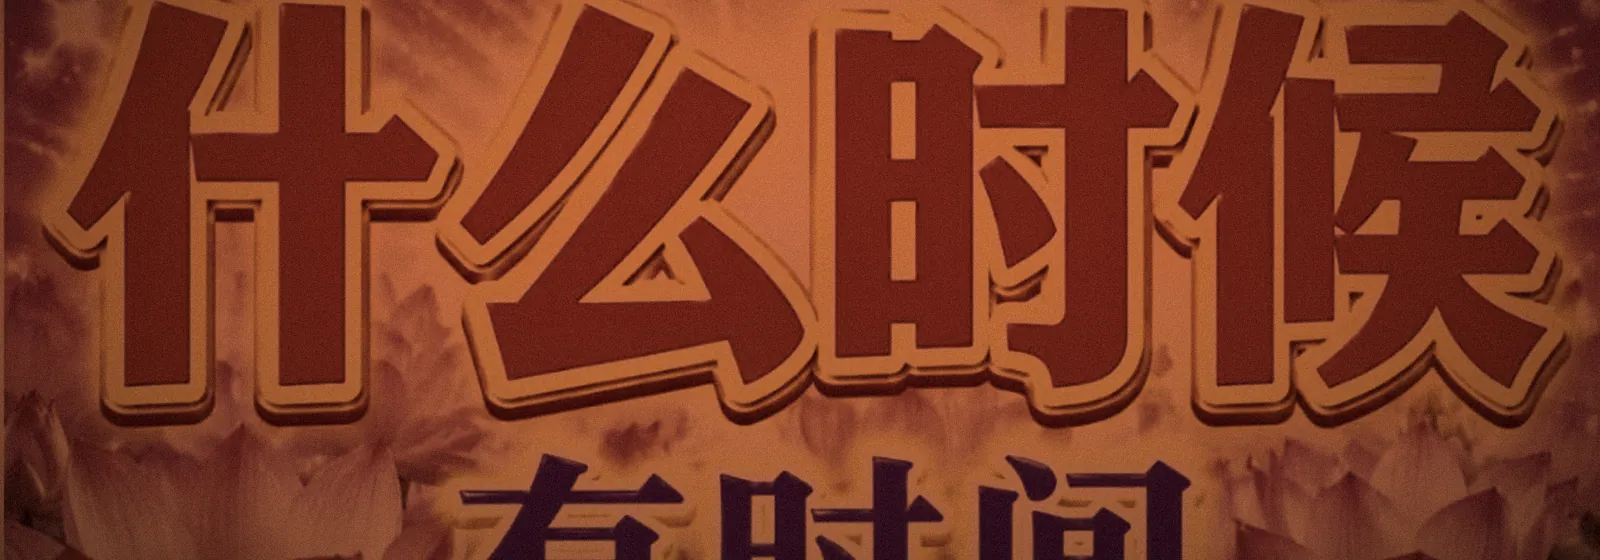
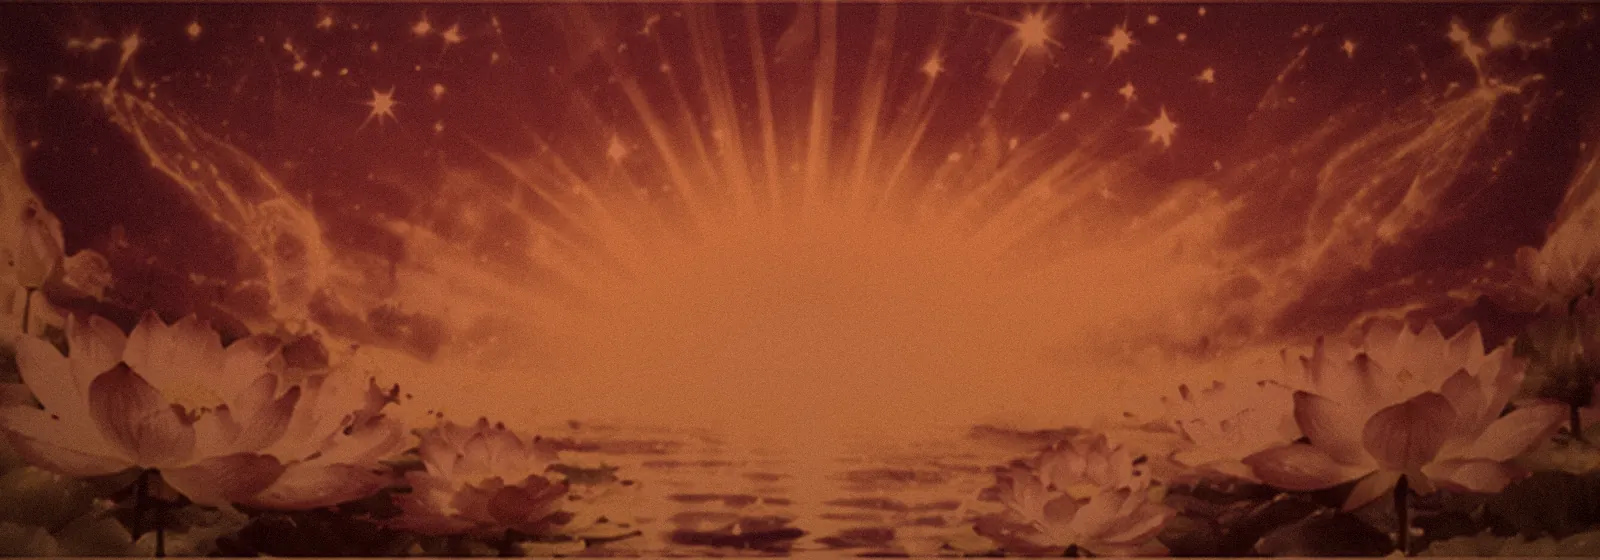
site: 2026-11-04 17:20

diff --git a/qrl/index.html b/qrl/index.html
@@ -79,10 +79,10 @@ body{
    卡片背景主配色为红色与金色……越有这种花哨的土味最好。」
    所以这里刻意不跟全站的紫色系走：烫金粗边 + 双层红渐变 + 斜纹底 + 四角金饰 + 灯笼，
    标题用 clamp 吃到容器宽度上限。整块只在 QRL 页、且有新文章时才出现。 */
-/* 背景图由 render 时随机挑一张（见 pickGongxiBg）：--bg 是这个卡片的图片地址，
-   --bgpos 是它的对齐位置。图片本身已经过「压亮度 + 红调化」预处理（tools/make-gongxi-bg.py），
-   所以这里不再需要调透明度，直接把渐变作为兜底垫在图片下面——图没加载出来时
-   仍然是那块红金渐变，不会是白底黑字。 */
+/* 背景图按「喜报是哪天发的」取当天的星期那张（见 pickGongxiBg）：--bg 是这个卡片的
+   图片地址，--bgpos 是它的对齐位置。图片本身已经过「压亮度 + 红调化」预处理
+   （tools/make-gongxi-bg.py），所以这里不再需要调透明度，直接把渐变作为兜底
+   垫在图片下面——图没加载出来时仍然是那块红金渐变，不会是白底黑字。 */
 .gongxi{
   position:relative;margin:0 0 24px;padding:38px 26px 32px;text-align:center;
   border-radius:var(--radius);overflow:hidden;isolation:isolate;
@@ -496,12 +496,12 @@ footer b{color:var(--ink2);font-weight:600}
 <header class="hero"><div class="inner">
 <p class="kicker">Quantum Review Letters · Beta</p>
 <h1>QRL（测试版）</h1>
-<p class="meta"><div>共 <b>25</b> 篇</div><div>最近一次检查 2026-11-03</div><div>生成于 2026-11-04 16:17</div></p>
+<p class="meta"><div>共 <b>25</b> 篇</div><div>最近一次检查 2026-11-03</div><div>生成于 2026-11-04 17:18</div></p>
 </div></header>
 <div class="wrap">
 <nav class="tabs"><a href="../index.html">首页</a><a href="../daily/2026-11-04.html">日报</a><a href="../monthly/index.html">月报</a><a href="../topic/index.html">专题</a><a href="../qrl/index.html" class="active" aria-current="page">QRL（测试版）</a></nav>
 
-<div class="gongxi" style="--bg:url('../assets/gongxi/g2.webp');--bgpos:30% center">
+<div class="gongxi" style="--bg:url('../assets/gongxi/g2.webp');--bgpos:center">
 <div class="gbg"></div>
 <span class="lantern l">🏮</span><span class="lantern r">🏮</span>
 <p class="gk">Q R L · 新 刊 速 报</p>

diff --git a/topic/phot.html b/topic/phot.html
@@ -79,10 +79,10 @@ body{
    卡片背景主配色为红色与金色……越有这种花哨的土味最好。」
    所以这里刻意不跟全站的紫色系走：烫金粗边 + 双层红渐变 + 斜纹底 + 四角金饰 + 灯笼，
    标题用 clamp 吃到容器宽度上限。整块只在 QRL 页、且有新文章时才出现。 */
-/* 背景图由 render 时随机挑一张（见 pickGongxiBg）：--bg 是这个卡片的图片地址，
-   --bgpos 是它的对齐位置。图片本身已经过「压亮度 + 红调化」预处理（tools/make-gongxi-bg.py），
-   所以这里不再需要调透明度，直接把渐变作为兜底垫在图片下面——图没加载出来时
-   仍然是那块红金渐变，不会是白底黑字。 */
+/* 背景图按「喜报是哪天发的」取当天的星期那张（见 pickGongxiBg）：--bg 是这个卡片的
+   图片地址，--bgpos 是它的对齐位置。图片本身已经过「压亮度 + 红调化」预处理
+   （tools/make-gongxi-bg.py），所以这里不再需要调透明度，直接把渐变作为兜底
+   垫在图片下面——图没加载出来时仍然是那块红金渐变，不会是白底黑字。 */
 .gongxi{
   position:relative;margin:0 0 24px;padding:38px 26px 32px;text-align:center;
   border-radius:var(--radius);overflow:hidden;isolation:isolate;
@@ -496,7 +496,7 @@ footer b{color:var(--ink2);font-weight:600}
 <header class="hero"><div class="inner">
 <p class="kicker">Special Topic · phot</p>
 <h1>专题 · 集成光子学</h1>
-<p class="meta"><div>共 <b>6</b> 篇 · 收录区间 2026-10-20 ~ 2026-11-03</div><div>检索窗口 2026-10-20 ~ 2026-11-03</div><div>生成于 2026-11-04 16:17</div></p>
+<p class="meta"><div>共 <b>6</b> 篇 · 收录区间 2026-10-20 ~ 2026-11-03</div><div>检索窗口 2026-10-20 ~ 2026-11-03</div><div>生成于 2026-11-04 17:18</div></p>
 </div></header>
 <div class="wrap">
 <nav class="tabs"><a href="../index.html">首页</a><a href="../daily/2026-11-04.html">日报</a><a href="../monthly/index.html">月报</a><a href="../topic/index.html" class="active" aria-current="page">专题</a><a href="../qrl/index.html">QRL（测试版）</a></nav>

diff --git a/topic/crypto.html b/topic/crypto.html
@@ -79,10 +79,10 @@ body{
    卡片背景主配色为红色与金色……越有这种花哨的土味最好。」
    所以这里刻意不跟全站的紫色系走：烫金粗边 + 双层红渐变 + 斜纹底 + 四角金饰 + 灯笼，
    标题用 clamp 吃到容器宽度上限。整块只在 QRL 页、且有新文章时才出现。 */
-/* 背景图由 render 时随机挑一张（见 pickGongxiBg）：--bg 是这个卡片的图片地址，
-   --bgpos 是它的对齐位置。图片本身已经过「压亮度 + 红调化」预处理（tools/make-gongxi-bg.py），
-   所以这里不再需要调透明度，直接把渐变作为兜底垫在图片下面——图没加载出来时
-   仍然是那块红金渐变，不会是白底黑字。 */
+/* 背景图按「喜报是哪天发的」取当天的星期那张（见 pickGongxiBg）：--bg 是这个卡片的
+   图片地址，--bgpos 是它的对齐位置。图片本身已经过「压亮度 + 红调化」预处理
+   （tools/make-gongxi-bg.py），所以这里不再需要调透明度，直接把渐变作为兜底
+   垫在图片下面——图没加载出来时仍然是那块红金渐变，不会是白底黑字。 */
 .gongxi{
   position:relative;margin:0 0 24px;padding:38px 26px 32px;text-align:center;
   border-radius:var(--radius);overflow:hidden;isolation:isolate;
@@ -496,7 +496,7 @@ footer b{color:var(--ink2);font-weight:600}
 <header class="hero"><div class="inner">
 <p class="kicker">Special Topic · crypto</p>
 <h1>专题 · 量子密码</h1>
-<p class="meta"><div>共 <b>1</b> 篇 · 收录区间 2026-10-20 ~ 2026-11-03</div><div>检索窗口 2026-10-20 ~ 2026-11-03</div><div>生成于 2026-11-04 16:17</div></p>
+<p class="meta"><div>共 <b>1</b> 篇 · 收录区间 2026-10-20 ~ 2026-11-03</div><div>检索窗口 2026-10-20 ~ 2026-11-03</div><div>生成于 2026-11-04 17:18</div></p>
 </div></header>
 <div class="wrap">
 <nav class="tabs"><a href="../index.html">首页</a><a href="../daily/2026-11-04.html">日报</a><a href="../monthly/index.html">月报</a><a href="../topic/index.html" class="active" aria-current="page">专题</a><a href="../qrl/index.html">QRL（测试版）</a></nav>

diff --git a/topic/ent.html b/topic/ent.html
@@ -79,10 +79,10 @@ body{
    卡片背景主配色为红色与金色……越有这种花哨的土味最好。」
    所以这里刻意不跟全站的紫色系走：烫金粗边 + 双层红渐变 + 斜纹底 + 四角金饰 + 灯笼，
    标题用 clamp 吃到容器宽度上限。整块只在 QRL 页、且有新文章时才出现。 */
-/* 背景图由 render 时随机挑一张（见 pickGongxiBg）：--bg 是这个卡片的图片地址，
-   --bgpos 是它的对齐位置。图片本身已经过「压亮度 + 红调化」预处理（tools/make-gongxi-bg.py），
-   所以这里不再需要调透明度，直接把渐变作为兜底垫在图片下面——图没加载出来时
-   仍然是那块红金渐变，不会是白底黑字。 */
+/* 背景图按「喜报是哪天发的」取当天的星期那张（见 pickGongxiBg）：--bg 是这个卡片的
+   图片地址，--bgpos 是它的对齐位置。图片本身已经过「压亮度 + 红调化」预处理
+   （tools/make-gongxi-bg.py），所以这里不再需要调透明度，直接把渐变作为兜底
+   垫在图片下面——图没加载出来时仍然是那块红金渐变，不会是白底黑字。 */
 .gongxi{
   position:relative;margin:0 0 24px;padding:38px 26px 32px;text-align:center;
   border-radius:var(--radius);overflow:hidden;isolation:isolate;
@@ -496,7 +496,7 @@ footer b{color:var(--ink2);font-weight:600}
 <header class="hero"><div class="inner">
 <p class="kicker">Special Topic · ent</p>
 <h1>专题 · 量子纠缠</h1>
-<p class="meta"><div>共 <b>5</b> 篇 · 收录区间 2026-10-20 ~ 2026-11-03</div><div>检索窗口 2026-10-20 ~ 2026-11-03</div><div>生成于 2026-11-04 16:17</div></p>
+<p class="meta"><div>共 <b>5</b> 篇 · 收录区间 2026-10-20 ~ 2026-11-03</div><div>检索窗口 2026-10-20 ~ 2026-11-03</div><div>生成于 2026-11-04 17:18</div></p>
 </div></header>
 <div class="wrap">
 <nav class="tabs"><a href="../index.html">首页</a><a href="../daily/2026-11-04.html">日报</a><a href="../monthly/index.html">月报</a><a href="../topic/index.html" class="active" aria-current="page">专题</a><a href="../qrl/index.html">QRL（测试版）</a></nav>

diff --git a/daily/2026-11-01.html b/daily/2026-11-01.html
@@ -79,10 +79,10 @@ body{
    卡片背景主配色为红色与金色……越有这种花哨的土味最好。」
    所以这里刻意不跟全站的紫色系走：烫金粗边 + 双层红渐变 + 斜纹底 + 四角金饰 + 灯笼，
    标题用 clamp 吃到容器宽度上限。整块只在 QRL 页、且有新文章时才出现。 */
-/* 背景图由 render 时随机挑一张（见 pickGongxiBg）：--bg 是这个卡片的图片地址，
-   --bgpos 是它的对齐位置。图片本身已经过「压亮度 + 红调化」预处理（tools/make-gongxi-bg.py），
-   所以这里不再需要调透明度，直接把渐变作为兜底垫在图片下面——图没加载出来时
-   仍然是那块红金渐变，不会是白底黑字。 */
+/* 背景图按「喜报是哪天发的」取当天的星期那张（见 pickGongxiBg）：--bg 是这个卡片的
+   图片地址，--bgpos 是它的对齐位置。图片本身已经过「压亮度 + 红调化」预处理
+   （tools/make-gongxi-bg.py），所以这里不再需要调透明度，直接把渐变作为兜底
+   垫在图片下面——图没加载出来时仍然是那块红金渐变，不会是白底黑字。 */
 .gongxi{
   position:relative;margin:0 0 24px;padding:38px 26px 32px;text-align:center;
   border-radius:var(--radius);overflow:hidden;isolation:isolate;
@@ -496,7 +496,7 @@ footer b{color:var(--ink2);font-weight:600}
 <header class="hero"><div class="inner">
 <p class="kicker">Quantum Information Digest · 2026-11-01</p>
 <h1>量子信息速递 · 11 月 1 日</h1>
-<p class="meta"><div>周日 · 本期共 <b>1</b> 篇</div><div>论文发表于 2026-11-01</div><div>生成于 2026-11-04 16:17</div></p>
+<p class="meta"><div>周日 · 本期共 <b>1</b> 篇</div><div>论文发表于 2026-11-01</div><div>生成于 2026-11-04 17:18</div></p>
 </div></header>
 <div class="wrap">
 <nav class="tabs"><a href="../index.html">首页</a><a href="../daily/2026-11-04.html" class="active" aria-current="page">日报</a><a href="../monthly/index.html">月报</a><a href="../topic/index.html">专题</a><a href="../qrl/index.html">QRL（测试版）</a></nav>

diff --git a/daily/2026-11-02.html b/daily/2026-11-02.html
@@ -79,10 +79,10 @@ body{
    卡片背景主配色为红色与金色……越有这种花哨的土味最好。」
    所以这里刻意不跟全站的紫色系走：烫金粗边 + 双层红渐变 + 斜纹底 + 四角金饰 + 灯笼，
    标题用 clamp 吃到容器宽度上限。整块只在 QRL 页、且有新文章时才出现。 */
-/* 背景图由 render 时随机挑一张（见 pickGongxiBg）：--bg 是这个卡片的图片地址，
-   --bgpos 是它的对齐位置。图片本身已经过「压亮度 + 红调化」预处理（tools/make-gongxi-bg.py），
-   所以这里不再需要调透明度，直接把渐变作为兜底垫在图片下面——图没加载出来时
-   仍然是那块红金渐变，不会是白底黑字。 */
+/* 背景图按「喜报是哪天发的」取当天的星期那张（见 pickGongxiBg）：--bg 是这个卡片的
+   图片地址，--bgpos 是它的对齐位置。图片本身已经过「压亮度 + 红调化」预处理
+   （tools/make-gongxi-bg.py），所以这里不再需要调透明度，直接把渐变作为兜底
+   垫在图片下面——图没加载出来时仍然是那块红金渐变，不会是白底黑字。 */
 .gongxi{
   position:relative;margin:0 0 24px;padding:38px 26px 32px;text-align:center;
   border-radius:var(--radius);overflow:hidden;isolation:isolate;
@@ -496,7 +496,7 @@ footer b{color:var(--ink2);font-weight:600}
 <header class="hero"><div class="inner">
 <p class="kicker">Quantum Information Digest · 2026-11-02</p>
 <h1>量子信息速递 · 11 月 2 日</h1>
-<p class="meta"><div>周一 · 本期共 <b>1</b> 篇</div><div>论文发表于 2026-11-02</div><div>生成于 2026-11-04 16:17</div></p>
+<p class="meta"><div>周一 · 本期共 <b>1</b> 篇</div><div>论文发表于 2026-11-02</div><div>生成于 2026-11-04 17:18</div></p>
 </div></header>
 <div class="wrap">
 <nav class="tabs"><a href="../index.html">首页</a><a href="../daily/2026-11-04.html" class="active" aria-current="page">日报</a><a href="../monthly/index.html">月报</a><a href="../topic/index.html">专题</a><a href="../qrl/index.html">QRL（测试版）</a></nav>

diff --git a/daily/2026-11-04.html b/daily/2026-11-04.html
@@ -79,10 +79,10 @@ body{
    卡片背景主配色为红色与金色……越有这种花哨的土味最好。」
    所以这里刻意不跟全站的紫色系走：烫金粗边 + 双层红渐变 + 斜纹底 + 四角金饰 + 灯笼，
    标题用 clamp 吃到容器宽度上限。整块只在 QRL 页、且有新文章时才出现。 */
-/* 背景图由 render 时随机挑一张（见 pickGongxiBg）：--bg 是这个卡片的图片地址，
-   --bgpos 是它的对齐位置。图片本身已经过「压亮度 + 红调化」预处理（tools/make-gongxi-bg.py），
-   所以这里不再需要调透明度，直接把渐变作为兜底垫在图片下面——图没加载出来时
-   仍然是那块红金渐变，不会是白底黑字。 */
+/* 背景图按「喜报是哪天发的」取当天的星期那张（见 pickGongxiBg）：--bg 是这个卡片的
+   图片地址，--bgpos 是它的对齐位置。图片本身已经过「压亮度 + 红调化」预处理
+   （tools/make-gongxi-bg.py），所以这里不再需要调透明度，直接把渐变作为兜底
+   垫在图片下面——图没加载出来时仍然是那块红金渐变，不会是白底黑字。 */
 .gongxi{
   position:relative;margin:0 0 24px;padding:38px 26px 32px;text-align:center;
   border-radius:var(--radius);overflow:hidden;isolation:isolate;
@@ -496,7 +496,7 @@ footer b{color:var(--ink2);font-weight:600}
 <header class="hero"><div class="inner">
 <p class="kicker">Quantum Information Digest · 2026-11-04</p>
 <h1>量子信息速递 · 11 月 4 日</h1>
-<p class="meta"><div>周三 · 本期共 <b>1</b> 篇</div><div>论文发表于 2026-11-03</div><div>生成于 2026-11-04 16:17</div></p>
+<p class="meta"><div>周三 · 本期共 <b>1</b> 篇</div><div>论文发表于 2026-11-03</div><div>生成于 2026-11-04 17:18</div></p>
 </div></header>
 <div class="wrap">
 <nav class="tabs"><a href="../index.html">首页</a><a href="../daily/2026-11-04.html" class="active" aria-current="page">日报</a><a href="../monthly/index.html">月报</a><a href="../topic/index.html">专题</a><a href="../qrl/index.html">QRL（测试版）</a></nav>

diff --git a/monthly/2026-10.html b/monthly/2026-10.html
@@ -79,10 +79,10 @@ body{
    卡片背景主配色为红色与金色……越有这种花哨的土味最好。」
    所以这里刻意不跟全站的紫色系走：烫金粗边 + 双层红渐变 + 斜纹底 + 四角金饰 + 灯笼，
    标题用 clamp 吃到容器宽度上限。整块只在 QRL 页、且有新文章时才出现。 */
-/* 背景图由 render 时随机挑一张（见 pickGongxiBg）：--bg 是这个卡片的图片地址，
-   --bgpos 是它的对齐位置。图片本身已经过「压亮度 + 红调化」预处理（tools/make-gongxi-bg.py），
-   所以这里不再需要调透明度，直接把渐变作为兜底垫在图片下面——图没加载出来时
-   仍然是那块红金渐变，不会是白底黑字。 */
+/* 背景图按「喜报是哪天发的」取当天的星期那张（见 pickGongxiBg）：--bg 是这个卡片的
+   图片地址，--bgpos 是它的对齐位置。图片本身已经过「压亮度 + 红调化」预处理
+   （tools/make-gongxi-bg.py），所以这里不再需要调透明度，直接把渐变作为兜底
+   垫在图片下面——图没加载出来时仍然是那块红金渐变，不会是白底黑字。 */
 .gongxi{
   position:relative;margin:0 0 24px;padding:38px 26px 32px;text-align:center;
   border-radius:var(--radius);overflow:hidden;isolation:isolate;
@@ -496,7 +496,7 @@ footer b{color:var(--ink2);font-weight:600}
 <header class="hero"><div class="inner">
 <p class="kicker">Monthly Archive · 2026-10</p>
 <h1>量子信息速递 · 2026 年 10 月</h1>
-<p class="meta"><div>共 <b>18</b> 篇</div><div>检索窗口 2026-10-20 ~ 2026-11-03</div><div>生成于 2026-11-04 16:17</div></p>
+<p class="meta"><div>共 <b>18</b> 篇</div><div>检索窗口 2026-10-20 ~ 2026-11-03</div><div>生成于 2026-11-04 17:18</div></p>
 </div></header>
 <div class="wrap">
 <nav class="tabs"><a href="../index.html">首页</a><a href="../daily/2026-11-04.html">日报</a><a href="../monthly/index.html" class="active" aria-current="page">月报</a><a href="../topic/index.html">专题</a><a href="../qrl/index.html">QRL（测试版）</a></nav>

diff --git a/monthly/2026-11.html b/monthly/2026-11.html
@@ -79,10 +79,10 @@ body{
    卡片背景主配色为红色与金色……越有这种花哨的土味最好。」
    所以这里刻意不跟全站的紫色系走：烫金粗边 + 双层红渐变 + 斜纹底 + 四角金饰 + 灯笼，
    标题用 clamp 吃到容器宽度上限。整块只在 QRL 页、且有新文章时才出现。 */
-/* 背景图由 render 时随机挑一张（见 pickGongxiBg）：--bg 是这个卡片的图片地址，
-   --bgpos 是它的对齐位置。图片本身已经过「压亮度 + 红调化」预处理（tools/make-gongxi-bg.py），
-   所以这里不再需要调透明度，直接把渐变作为兜底垫在图片下面——图没加载出来时
-   仍然是那块红金渐变，不会是白底黑字。 */
+/* 背景图按「喜报是哪天发的」取当天的星期那张（见 pickGongxiBg）：--bg 是这个卡片的
+   图片地址，--bgpos 是它的对齐位置。图片本身已经过「压亮度 + 红调化」预处理
+   （tools/make-gongxi-bg.py），所以这里不再需要调透明度，直接把渐变作为兜底
+   垫在图片下面——图没加载出来时仍然是那块红金渐变，不会是白底黑字。 */
 .gongxi{
   position:relative;margin:0 0 24px;padding:38px 26px 32px;text-align:center;
   border-radius:var(--radius);overflow:hidden;isolation:isolate;
@@ -496,7 +496,7 @@ footer b{color:var(--ink2);font-weight:600}
 <header class="hero"><div class="inner">
 <p class="kicker">Monthly Archive · 2026-11</p>
 <h1>量子信息速递 · 2026 年 11 月</h1>
-<p class="meta"><div>共 <b>3</b> 篇</div><div>检索窗口 2026-10-20 ~ 2026-11-03</div><div>生成于 2026-11-04 16:17</div></p>
+<p class="meta"><div>共 <b>3</b> 篇</div><div>检索窗口 2026-10-20 ~ 2026-11-03</div><div>生成于 2026-11-04 17:18</div></p>
 </div></header>
 <div class="wrap">
 <nav class="tabs"><a href="../index.html">首页</a><a href="../daily/2026-11-04.html">日报</a><a href="../monthly/index.html" class="active" aria-current="page">月报</a><a href="../topic/index.html">专题</a><a href="../qrl/index.html">QRL（测试版）</a></nav>

diff --git a/topic/index.html b/topic/index.html
@@ -79,10 +79,10 @@ body{
    卡片背景主配色为红色与金色……越有这种花哨的土味最好。」
    所以这里刻意不跟全站的紫色系走：烫金粗边 + 双层红渐变 + 斜纹底 + 四角金饰 + 灯笼，
    标题用 clamp 吃到容器宽度上限。整块只在 QRL 页、且有新文章时才出现。 */
-/* 背景图由 render 时随机挑一张（见 pickGongxiBg）：--bg 是这个卡片的图片地址，
-   --bgpos 是它的对齐位置。图片本身已经过「压亮度 + 红调化」预处理（tools/make-gongxi-bg.py），
-   所以这里不再需要调透明度，直接把渐变作为兜底垫在图片下面——图没加载出来时
-   仍然是那块红金渐变，不会是白底黑字。 */
+/* 背景图按「喜报是哪天发的」取当天的星期那张（见 pickGongxiBg）：--bg 是这个卡片的
+   图片地址，--bgpos 是它的对齐位置。图片本身已经过「压亮度 + 红调化」预处理
+   （tools/make-gongxi-bg.py），所以这里不再需要调透明度，直接把渐变作为兜底
+   垫在图片下面——图没加载出来时仍然是那块红金渐变，不会是白底黑字。 */
 .gongxi{
   position:relative;margin:0 0 24px;padding:38px 26px 32px;text-align:center;
   border-radius:var(--radius);overflow:hidden;isolation:isolate;
@@ -496,7 +496,7 @@ footer b{color:var(--ink2);font-weight:600}
 <header class="hero"><div class="inner">
 <p class="kicker">Special Topics · Cryptography, Entanglement, Photonics &amp; Fiber Sensing</p>
 <h1>专题</h1>
-<p class="meta"><div>共 <b>3</b> 个方向 · <b>12</b> 篇</div><div>本页生成于 2026-11-04 16:17</div></p>
+<p class="meta"><div>共 <b>3</b> 个方向 · <b>12</b> 篇</div><div>本页生成于 2026-11-04 17:18</div></p>
 </div></header>
 <div class="wrap">
 <nav class="tabs"><a href="../index.html">首页</a><a href="../daily/2026-11-04.html">日报</a><a href="../monthly/index.html">月报</a><a href="../topic/index.html" class="active" aria-current="page">专题</a><a href="../qrl/index.html">QRL（测试版）</a></nav>

diff --git a/index.html b/index.html
@@ -79,10 +79,10 @@ body{
    卡片背景主配色为红色与金色……越有这种花哨的土味最好。」
    所以这里刻意不跟全站的紫色系走：烫金粗边 + 双层红渐变 + 斜纹底 + 四角金饰 + 灯笼，
    标题用 clamp 吃到容器宽度上限。整块只在 QRL 页、且有新文章时才出现。 */
-/* 背景图由 render 时随机挑一张（见 pickGongxiBg）：--bg 是这个卡片的图片地址，
-   --bgpos 是它的对齐位置。图片本身已经过「压亮度 + 红调化」预处理（tools/make-gongxi-bg.py），
-   所以这里不再需要调透明度，直接把渐变作为兜底垫在图片下面——图没加载出来时
-   仍然是那块红金渐变，不会是白底黑字。 */
+/* 背景图按「喜报是哪天发的」取当天的星期那张（见 pickGongxiBg）：--bg 是这个卡片的
+   图片地址，--bgpos 是它的对齐位置。图片本身已经过「压亮度 + 红调化」预处理
+   （tools/make-gongxi-bg.py），所以这里不再需要调透明度，直接把渐变作为兜底
+   垫在图片下面——图没加载出来时仍然是那块红金渐变，不会是白底黑字。 */
 .gongxi{
   position:relative;margin:0 0 24px;padding:38px 26px 32px;text-align:center;
   border-radius:var(--radius);overflow:hidden;isolation:isolate;
@@ -496,7 +496,7 @@ footer b{color:var(--ink2);font-weight:600}
 <header class="hero"><div class="inner">
 <p class="kicker">Quantum Information Digest · Archive</p>
 <h1>量子信息速递</h1>
-<p class="meta"><div>累计 <b>21</b> 篇</div><div>每日 08:00 自动更新</div><div>本页生成于 2026-11-04 16:17</div></p>
+<p class="meta"><div>累计 <b>21</b> 篇</div><div>每日 08:00 自动更新</div><div>本页生成于 2026-11-04 17:18</div></p>
 </div></header>
 <div class="wrap">
 <nav class="tabs"><a href="index.html" class="active" aria-current="page">首页</a><a href="daily/2026-11-04.html">日报</a><a href="monthly/index.html">月报</a><a href="topic/index.html">专题</a><a href="qrl/index.html">QRL（测试版）</a></nav>

diff --git a/daily/2026-11.html b/daily/2026-11.html
@@ -79,10 +79,10 @@ body{
    卡片背景主配色为红色与金色……越有这种花哨的土味最好。」
    所以这里刻意不跟全站的紫色系走：烫金粗边 + 双层红渐变 + 斜纹底 + 四角金饰 + 灯笼，
    标题用 clamp 吃到容器宽度上限。整块只在 QRL 页、且有新文章时才出现。 */
-/* 背景图由 render 时随机挑一张（见 pickGongxiBg）：--bg 是这个卡片的图片地址，
-   --bgpos 是它的对齐位置。图片本身已经过「压亮度 + 红调化」预处理（tools/make-gongxi-bg.py），
-   所以这里不再需要调透明度，直接把渐变作为兜底垫在图片下面——图没加载出来时
-   仍然是那块红金渐变，不会是白底黑字。 */
+/* 背景图按「喜报是哪天发的」取当天的星期那张（见 pickGongxiBg）：--bg 是这个卡片的
+   图片地址，--bgpos 是它的对齐位置。图片本身已经过「压亮度 + 红调化」预处理
+   （tools/make-gongxi-bg.py），所以这里不再需要调透明度，直接把渐变作为兜底
+   垫在图片下面——图没加载出来时仍然是那块红金渐变，不会是白底黑字。 */
 .gongxi{
   position:relative;margin:0 0 24px;padding:38px 26px 32px;text-align:center;
   border-radius:var(--radius);overflow:hidden;isolation:isolate;
@@ -496,7 +496,7 @@ footer b{color:var(--ink2);font-weight:600}
 <header class="hero"><div class="inner">
 <p class="kicker">Monthly Index · 2026-11</p>
 <h1>量子信息速递 · 2026 年 11 月</h1>
-<p class="meta"><div>本月 <b>3</b> 期 · <b>3</b> 篇</div><div>本页生成于 2026-11-04 16:17</div></p>
+<p class="meta"><div>本月 <b>3</b> 期 · <b>3</b> 篇</div><div>本页生成于 2026-11-04 17:18</div></p>
 </div></header>
 <div class="wrap">
 <nav class="tabs"><a href="../index.html">首页</a><a href="../daily/2026-11-04.html" class="active" aria-current="page">日报</a><a href="../monthly/index.html">月报</a><a href="../topic/index.html">专题</a><a href="../qrl/index.html">QRL（测试版）</a></nav>
